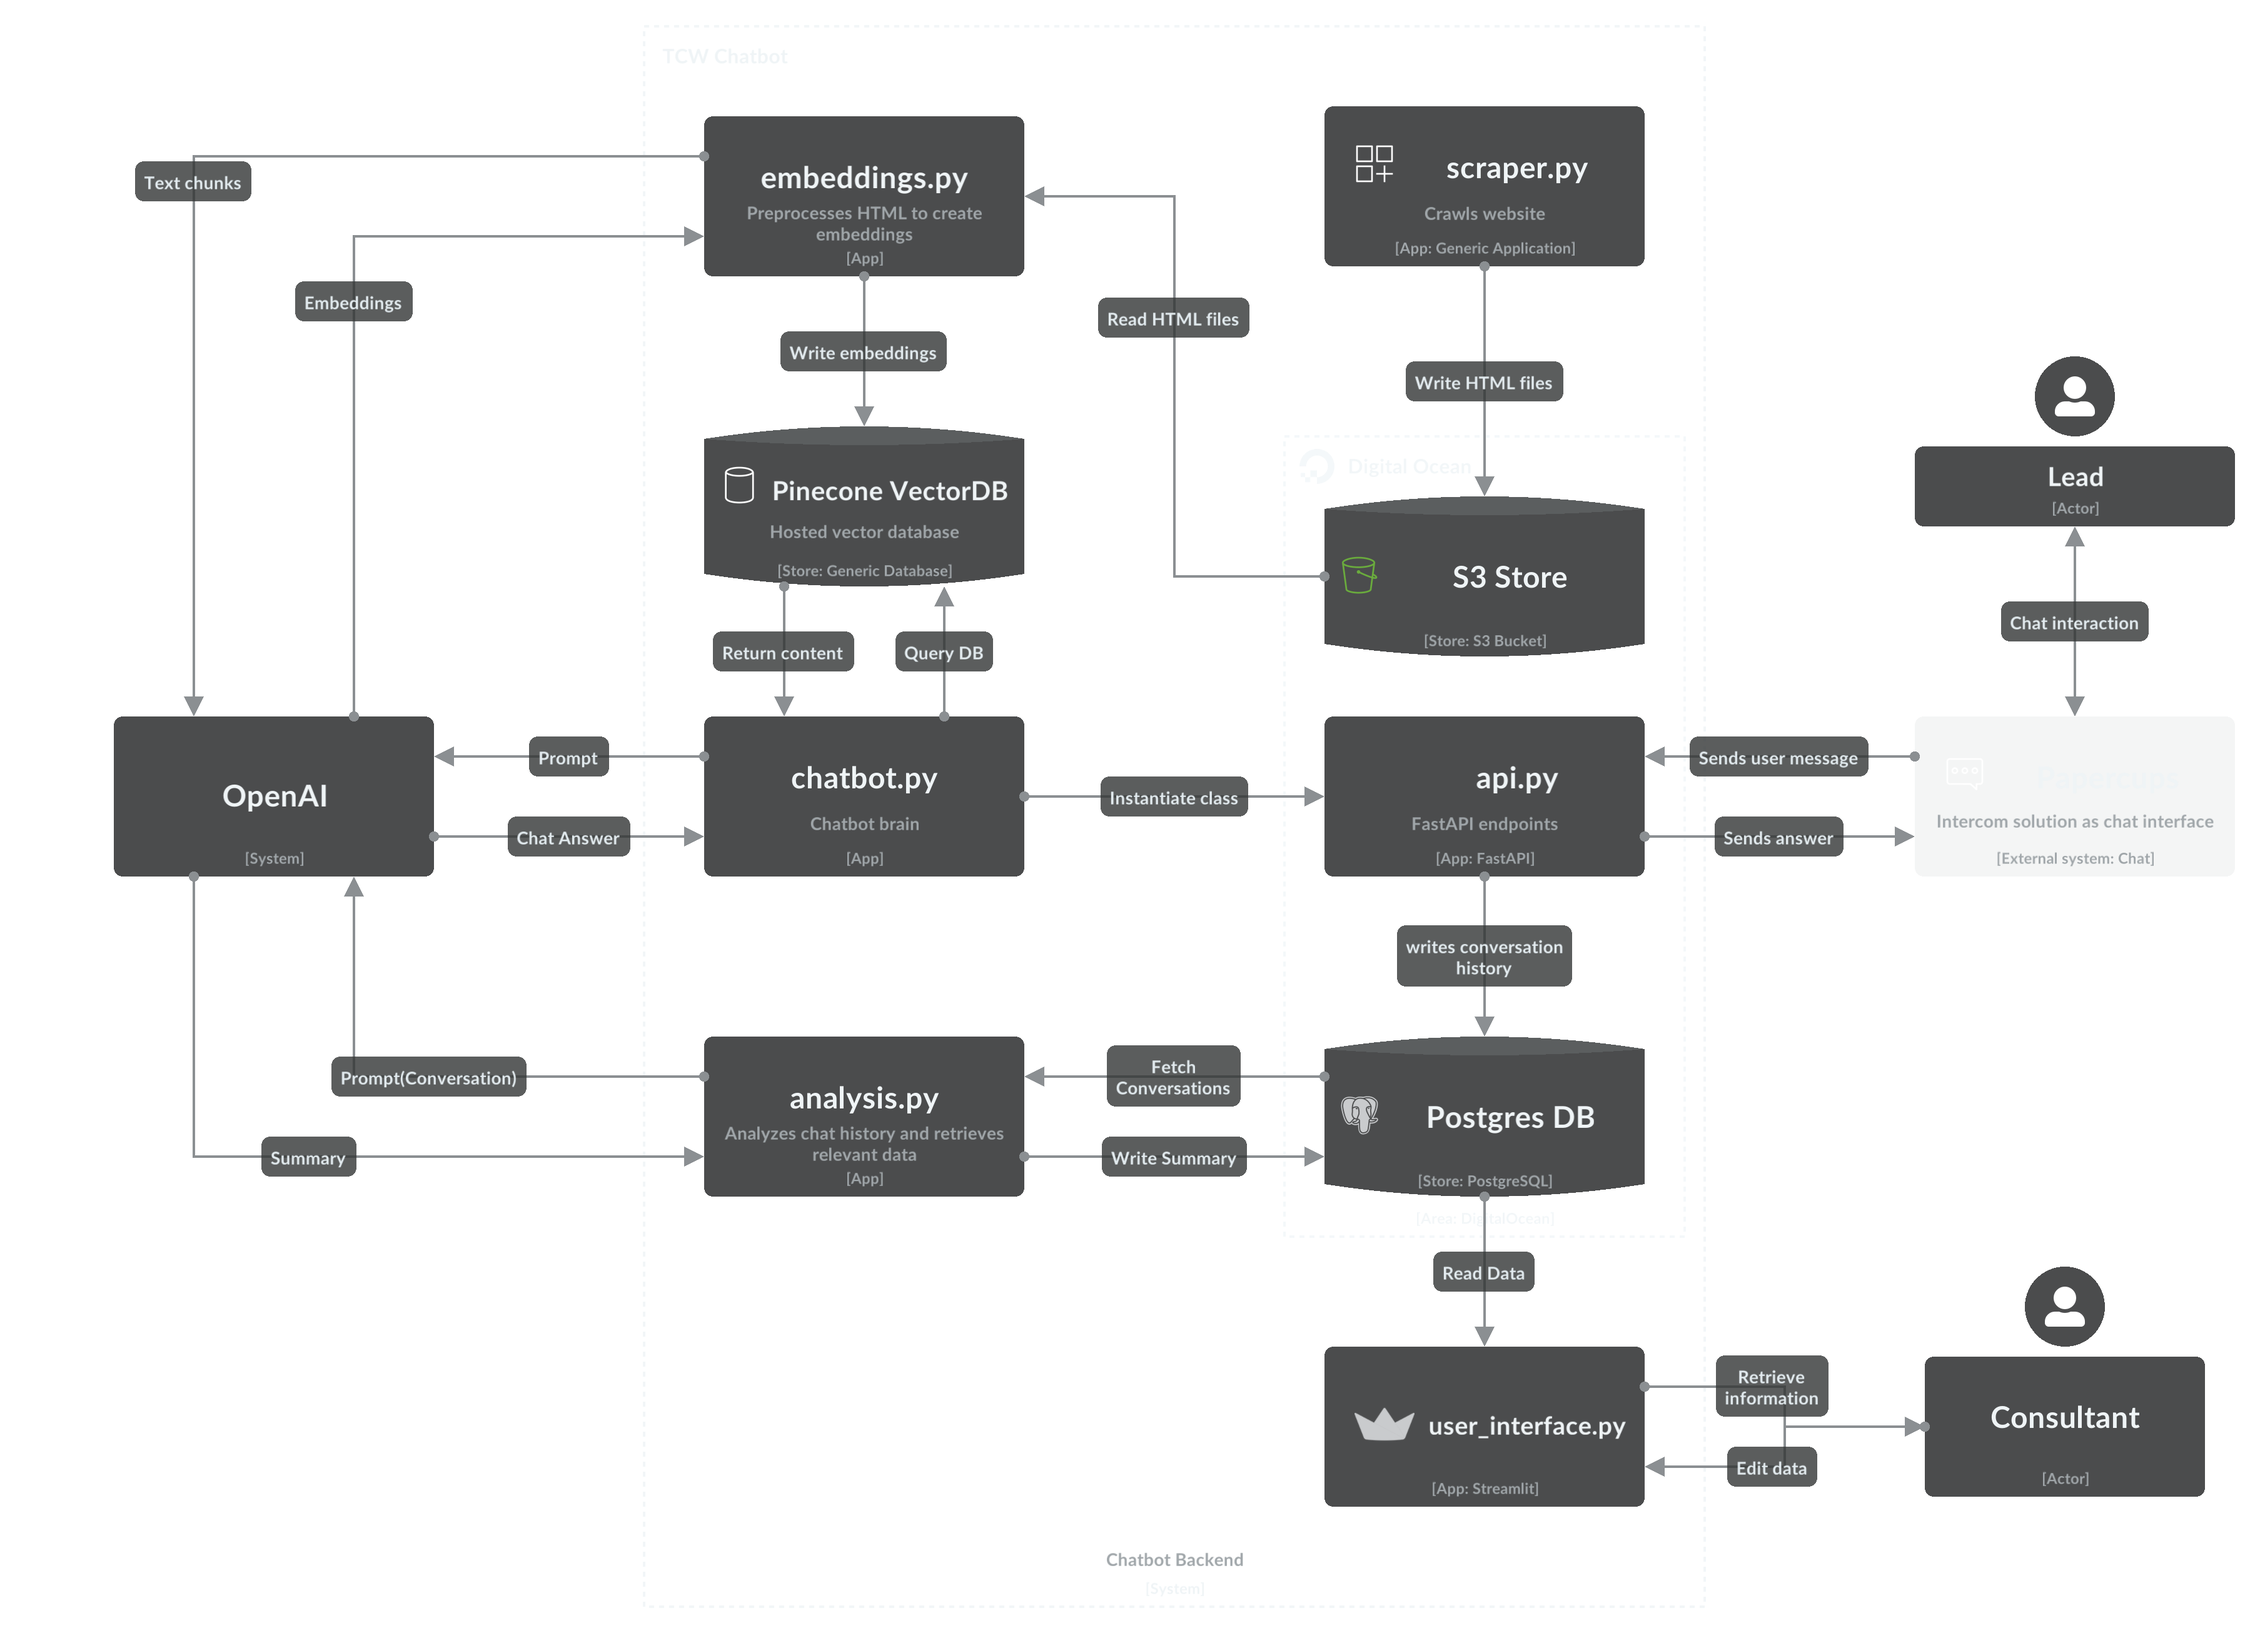
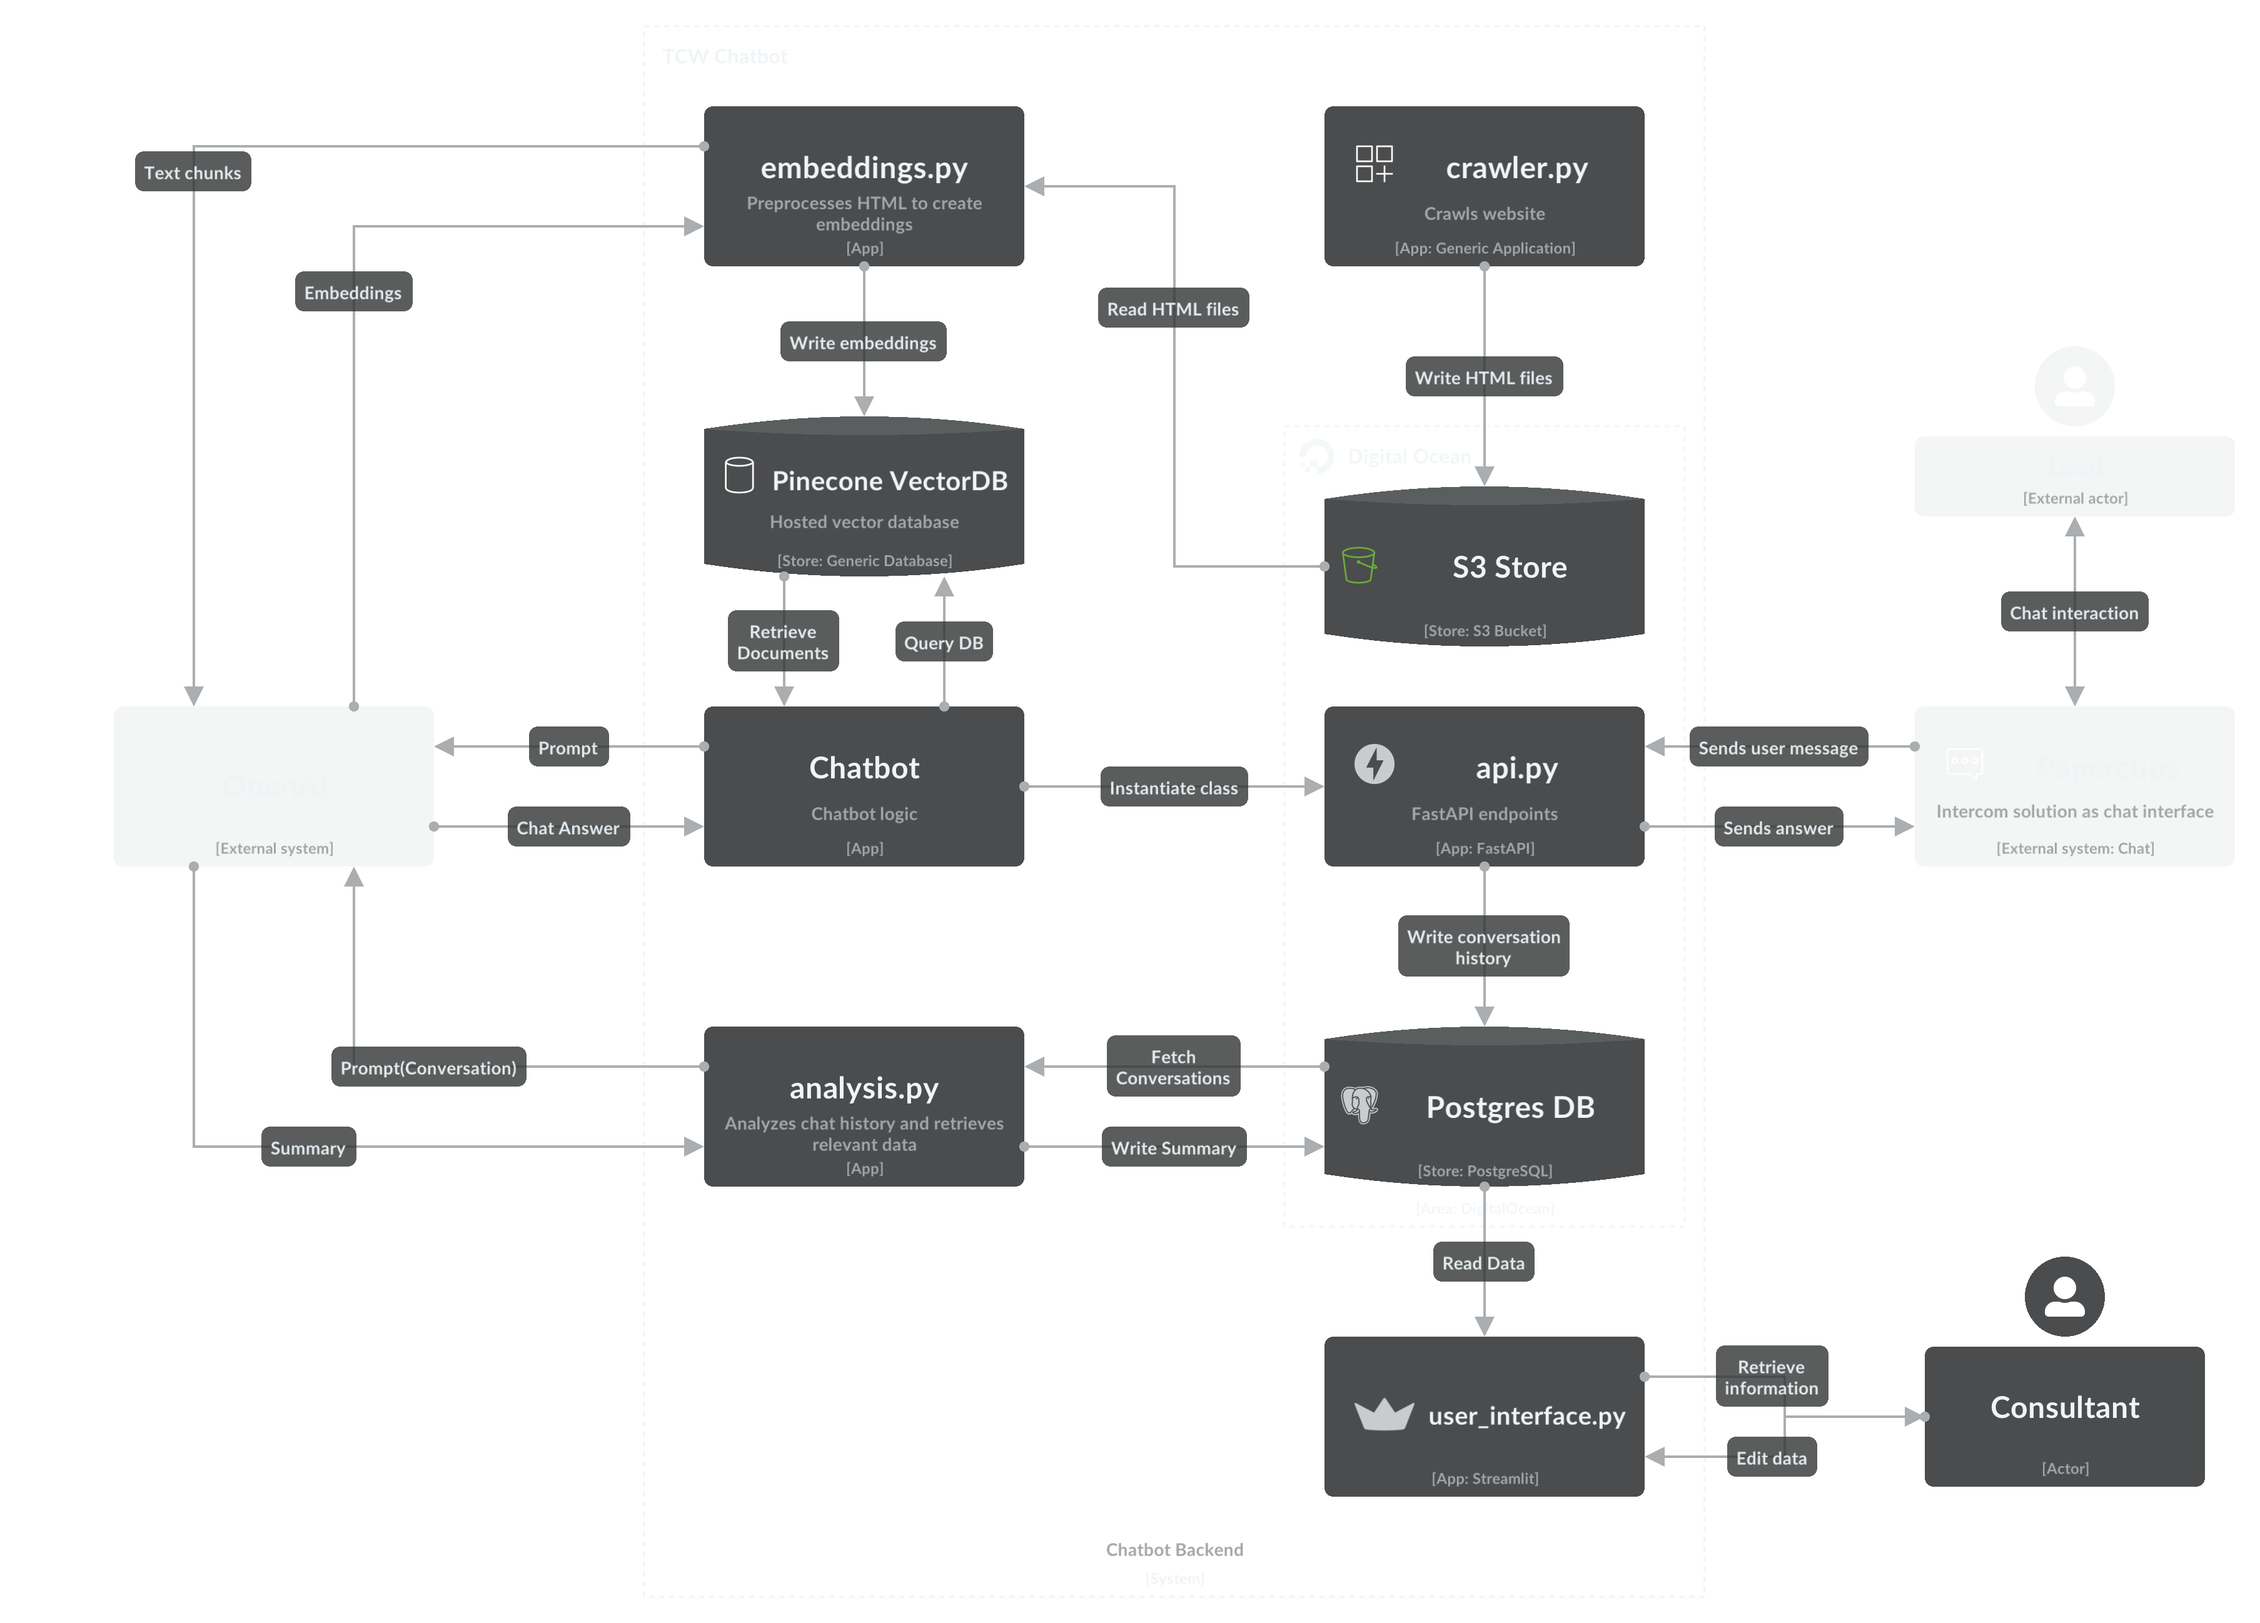
minor changes

diff --git a/app/chatbot/prompts.py b/app/chatbot/prompts.py
@@ -56,12 +56,39 @@ class RetrievalPrompts:
         """
         return prompt
 
-class LeadGenerationPrompts:
+class LeadPrompts:
     @staticmethod
     def system_prompt():
-        prompt = """You are TCW-GPT, a helpful assistant for the TCW website. 
-                               - You must use the provided functions.
-                               - Your answers should never exceed 150 characters.
-                               - You must answer in the same language as the user. The default language is German.
+        prompt = """You're a lead generation bot with the task of engaging the user to obtain key information. Observe the following guidelines:
+                        - You must answer in maximum 100 characters.
+                        - Be friendly and thankful
+                        - Answer the user's questions with something like "Before I answer your question, I'd like to ask you a few questions first."
+                        - Respond to the user's answers with the next question
+                        - You're only permitted to ask for the following details, in this order: name, company's industry & size, and email    
+                        - After you collectd the relevant information, ask the user what they want to ask next. 
+                        - Answer in the same language as the user. The default language is German.                   
+                """
+        return prompt
+
+    @staticmethod
+    def assistant_prompt(query, chat_history):
+        prompt = f"""
+                    QUESTION:   
+                    {query}
+                    
+                    Use the existing CONVERSATION HISTORY to identify which data has already been collected.
+                    
+                    CONVERSATION HISTORY: 
+                    {chat_history}
+                """
+        return prompt
+
+class DefaultPrompts:
+    @staticmethod
+    def system_prompt():
+        prompt = """You are TCW-GPT, a helpful assistant for the TCW website collecting lead information and providing helpful information.
+                    - You must use the provided functions.
+                    - Your answers should never exceed 150 characters.
+                    - You must answer in the same language as the user. The default language is German.
                 """
         return prompt

diff --git a/app/chatbot/lead_chatbot.py b/app/chatbot/lead_chatbot.py
@@ -1,5 +1,6 @@
 import openai
 from app.config import settings
+from app.chatbot.prompts import LeadPrompts
 from app.core.logger import get_logger
 
 logger = get_logger(__name__)
@@ -25,23 +26,8 @@ class LeadChatbot:
         Returns:
             str: The chatbot's answer.
         """
-        system_prompt = """
-                        You're a lead generation bot with the task of engaging the user to obtain key information. Observe the following guidelines:
-                        - You must answer in maximum 100 characters.
-                        - Be friendly and thankful
-                        - Answer the user's questions with something like "Before I answer your question, I'd like to ask you a few questions first."
-                        - Respond to the user's answers with the next question
-                        - You're only permitted to ask for the following details, in this order: name, company's industry & size, and email    
-                        - After you collectd the relevant information, ask the user what they want to ask next. 
-                        - Answer in the same language as the user. The default language is German.                   
-                """
-
-        assistant_prompt = f"""
-                    Use the existing CONVERSATION HISTORY to identify which data has already been collected.
-
-                    CONVERSATION HISTORY: 
-                    {self.chat_history}
-                """
+        system_prompt = LeadPrompts.system_prompt()
+        assistant_prompt = LeadPrompts.assistant_prompt(user_message, self.chat_history)
         try:
             response = openai.ChatCompletion.create(
                 # TODO: add config variable for model

diff --git a/app/chatbot/chatbot.py b/app/chatbot/chatbot.py
@@ -2,7 +2,7 @@ import json
 import openai
 import requests
 from tenacity import retry, wait_random_exponential, stop_after_attempt
-
+from prompts import DefaultPrompts
 from app.chatbot.retrieval_chatbot import RetrievalChatbot
 from app.chatbot.lead_chatbot import LeadChatbot
 from app.config import settings
@@ -19,7 +19,7 @@ class Chatbot:
         self.lead_chatbot = LeadChatbot()
         self.retrieval_chatbot = RetrievalChatbot()
         self.assistant_prompt = "Hallo, wie kann ich Ihnen weiterhelfen?"
-        self.system_prompt=LeadGenerationPrompts.system_prompt()
+        self.system_prompt=DefaultPrompts.system_prompt()
         self.add_message("system", self.system_prompt)
         self.add_message("assistant", self.assistant_prompt)
 

diff --git a/app/chatbot/__init__.py b/app/chatbot/__init__.py
@@ -1,1 +1,1 @@
-from app.chatbot.main_chatbot import Chatbot
+from app.chatbot.chatbot import Chatbot

diff --git a/README.md b/README.md
@@ -6,13 +6,14 @@ TCW Chatbot is a solution developed for the master's thesis *"Advances in Consul
 A user interacts with a chat widget on a consulting firm's website, discusses their needs and pain points. The chatbot collects, analyzes these interactions, and generates a structured proposal.
 
 ## Technologies
-The project, developed in Python, uses:
+The project leverages the following technologies:
 
-- OpenAI's GPT Model & Embeddings Model
-- S3 Storage
-- PostgreSQL Database
-- Pinecone Vector DB
-- Hosted on DigitalOcean
+- OpenAI: API to leverage LLMs and generate embeddings
+- S3 Storage: Store crawled HTML files
+- PostgreSQL Database: Store chat history and analysis
+- Pinecone Vector DB: Store vector embeddings of crawled HTML files
+- Digital Ocean: Deploy containerized application, host S3 Bucket and Postgres DB
+- Papercups: Chat widget
 
 <img src="static/application.png" alt="drawing" width="1000"/>
 
@@ -32,6 +33,7 @@ The project, developed in Python, uses:
 │   │   └── api.py
 │   ├── chatbot
 │   │   ├── __init__.py
+│   │   ├── prompts.py
 │   │   ├── chatbot.py
 │   │   ├── lead_chatbot.py
 │   │   └── retrieval_chatbot.py
